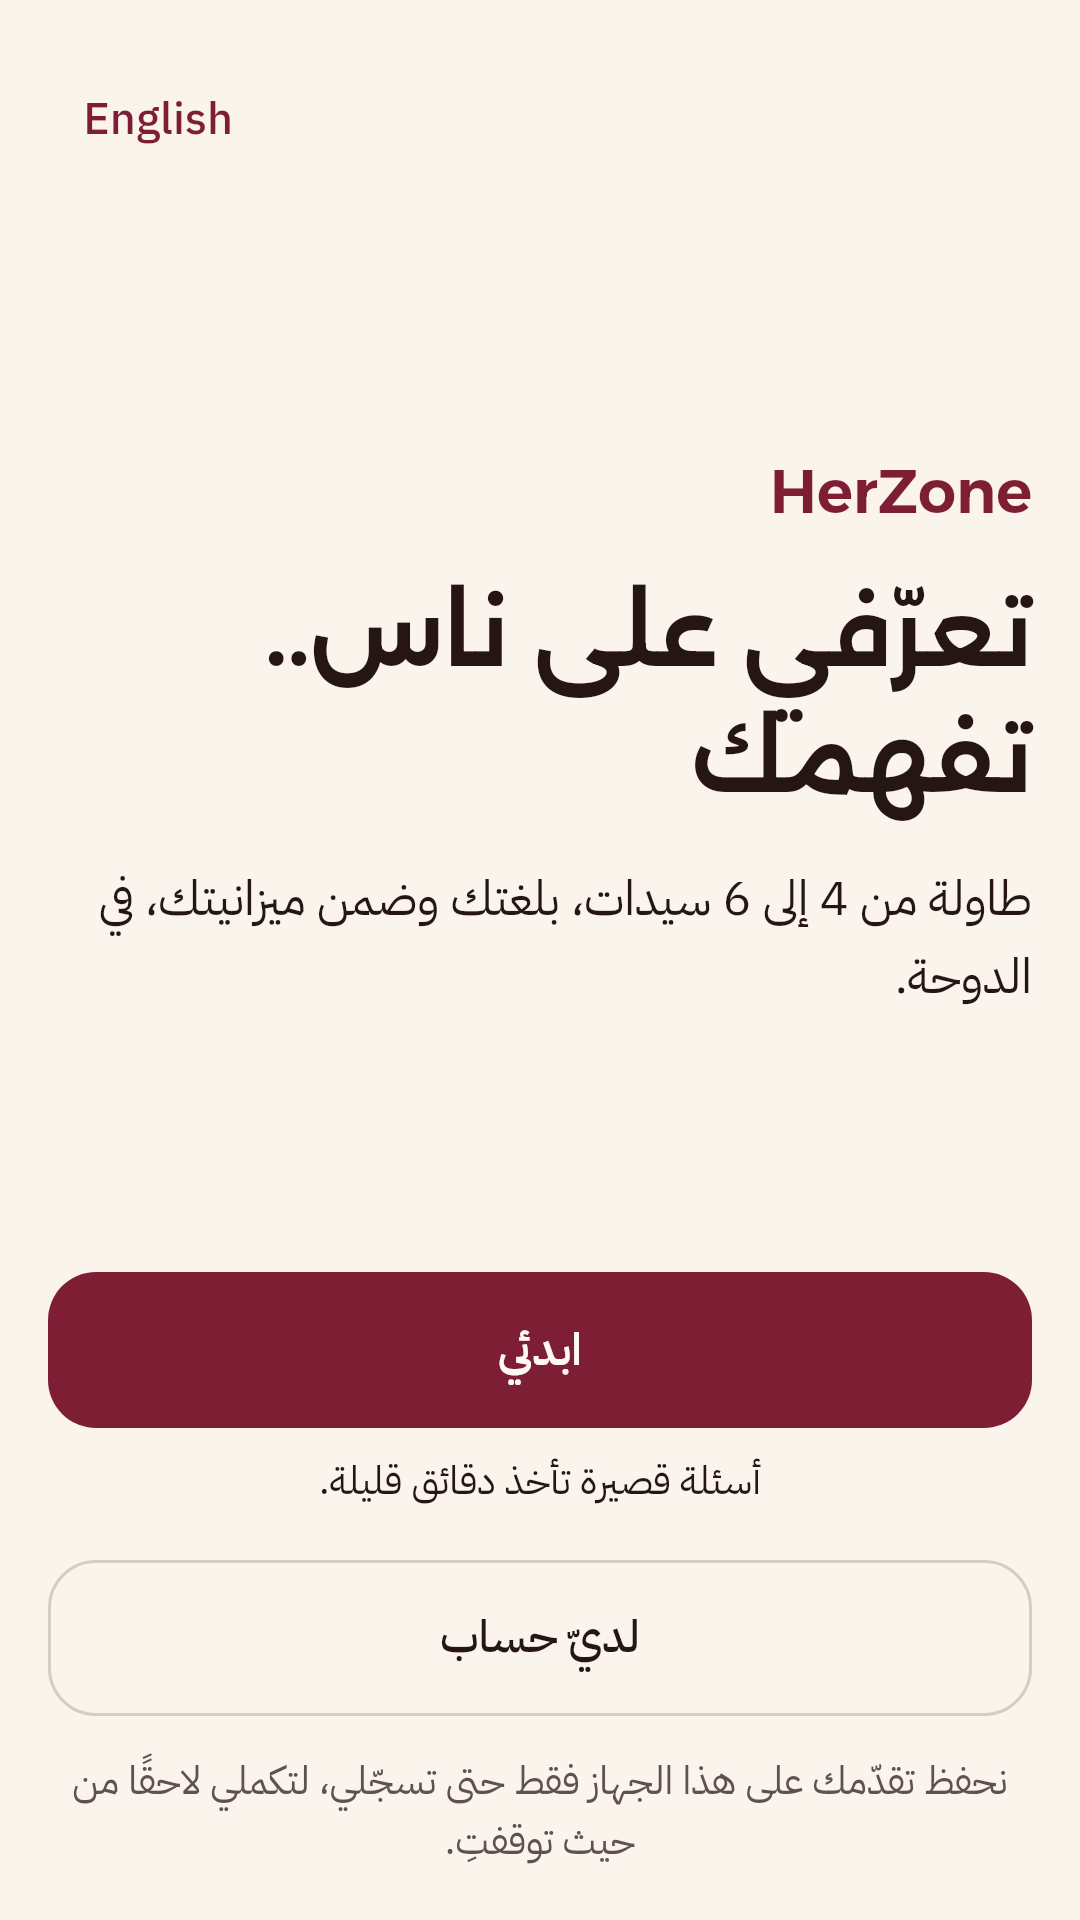
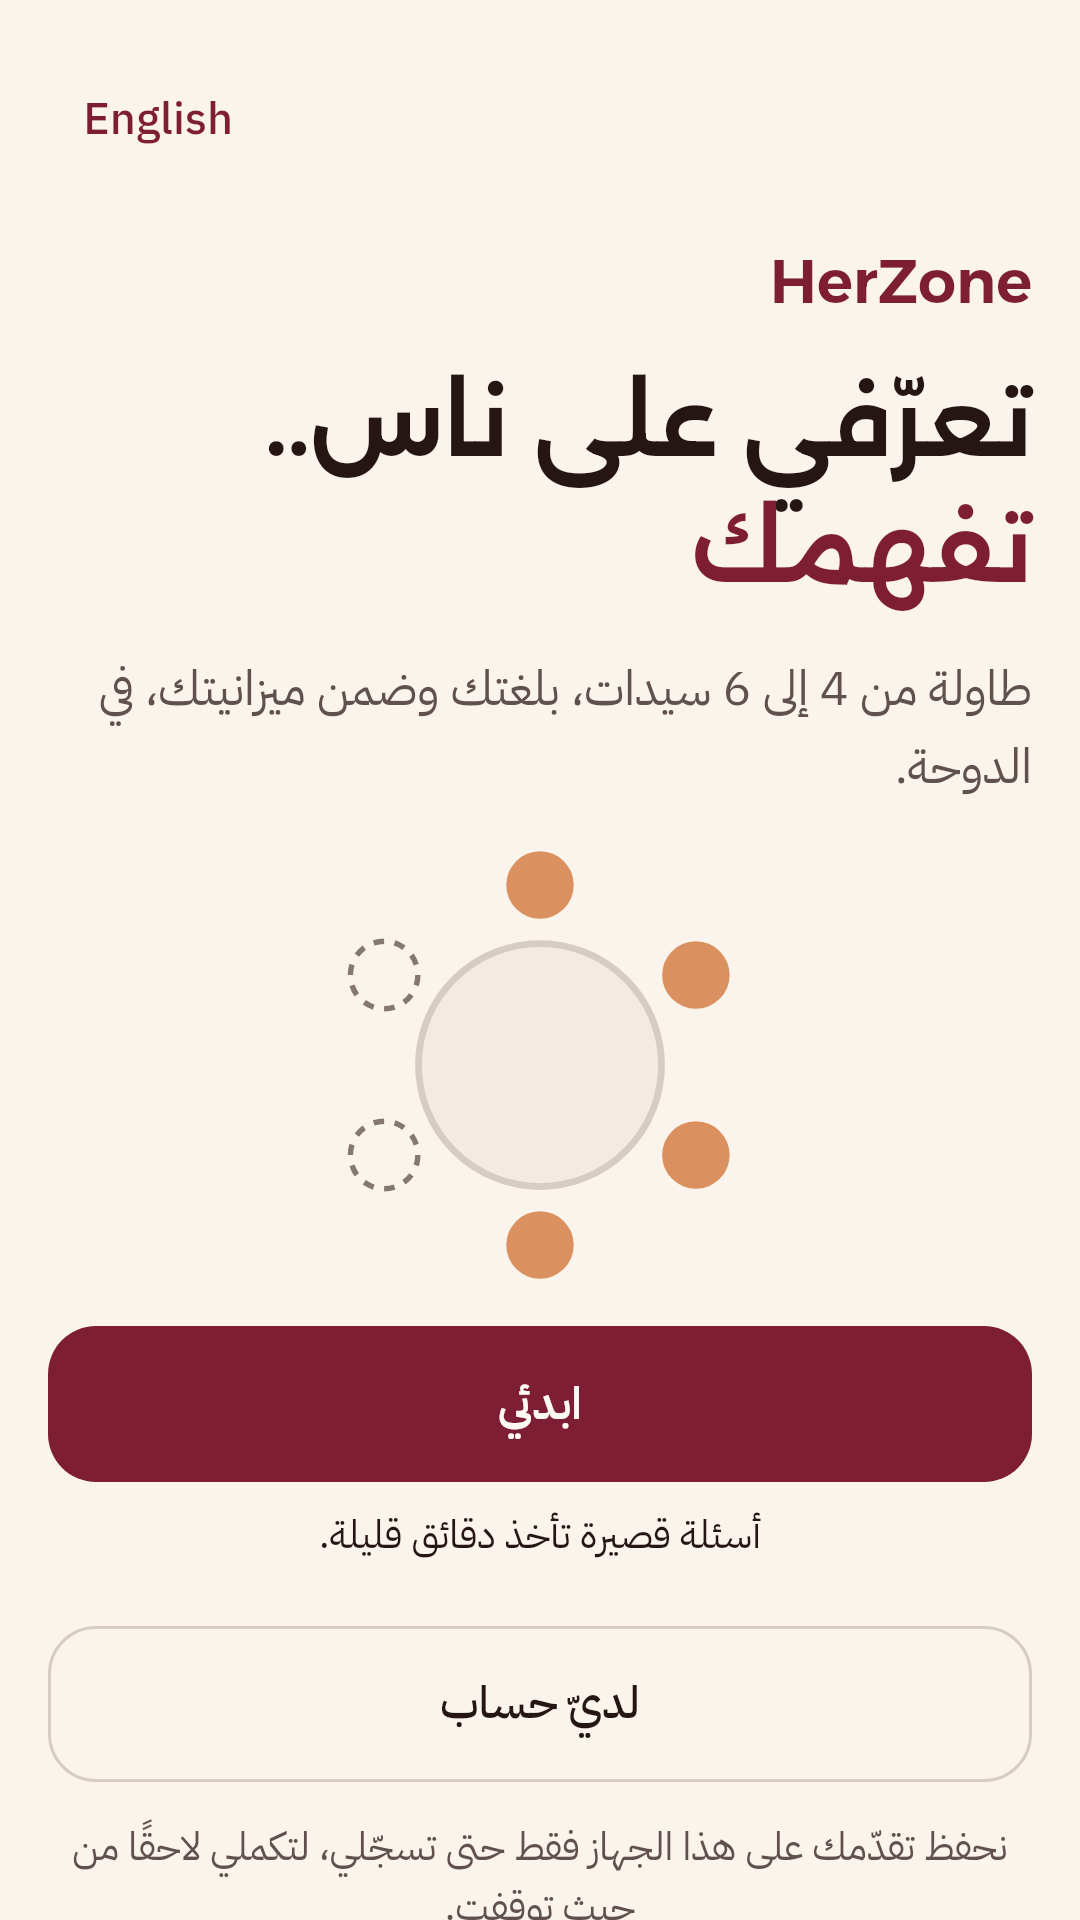
App design (Flutter): table drawing and accent on welcome, web-style cards, date lines, progress ticks
From the design audit of the app's screens, matched to herzone.app:
- welcome: the same table drawing (new TableArt widget) and the accent word «تفهمك» / "get you";
  scrolls when the text is enlarged or the screen is short
- cards app-wide as on the web: sunken fill, no border, no shadow (CardThemeData)
- session cards and booking details: the experience and the date on separate lines, so a "·"
  never dangles at the end of a wrapped line
- booking progress: done steps with a check icon (the app font has no tick glyph), current step
  bold in the brand colour, bars level when a label wraps
- store screenshots (iOS 6.9", Android) regenerated

flutter analyze: no issues; 39 app tests pass.

Claude-Session: https://claude.ai/code/session_01FEXgDqNsHx3oP1pnWG1BkE

diff --git a/qatar/app/lib/ui/onboarding/welcome_screen.dart b/qatar/app/lib/ui/onboarding/welcome_screen.dart
@@ -5,6 +5,7 @@ import 'package:provider/provider.dart';
 import '../../design/herzone_tokens.dart';
 import '../../domain/locale_controller.dart';
 import '../../l10n/app_localizations.dart';
+import '../common/table_art.dart';
 import '../theme.dart';
 
 class WelcomeScreen extends StatelessWidget {
@@ -15,30 +16,51 @@ class WelcomeScreen extends StatelessWidget {
     final t = AppLocalizations.of(context);
     final c = hzColors(context);
     final tt = Theme.of(context).textTheme;
+    // the last words of the headline in the brand colour, as on herzone.app ("تعرّفي على ناس.. تفهمك")
+    final hero = t.welcomeHero;
+    final em = t.welcomeHeroEm;
+    final at = hero.lastIndexOf(em);
+    final heroText = at < 0
+        ? Text(hero, style: tt.displaySmall)
+        : Text.rich(TextSpan(style: tt.displaySmall, children: [
+            TextSpan(text: hero.substring(0, at)),
+            TextSpan(text: em, style: TextStyle(color: c.primary)),
+            TextSpan(text: hero.substring(at + em.length)),
+          ]));
     return Scaffold(
       body: SafeArea(
-        child: Padding(
-          padding: const EdgeInsets.all(HzSpace.gutter),
-          child: Column(crossAxisAlignment: CrossAxisAlignment.stretch, children: [
-            Align(
-              alignment: AlignmentDirectional.centerEnd,
-              child: TextButton(key: const Key('lang'), onPressed: context.read<LocaleController>().toggle, child: Text(t.language)),
+        // scrolls when the text is enlarged or the screen is short, and fills the screen otherwise
+        child: LayoutBuilder(
+          builder: (context, box) => SingleChildScrollView(
+            padding: const EdgeInsets.all(HzSpace.gutter),
+            child: ConstrainedBox(
+              constraints: BoxConstraints(minHeight: box.maxHeight - 2 * HzSpace.gutter),
+              child: IntrinsicHeight(
+                child: Column(crossAxisAlignment: CrossAxisAlignment.stretch, children: [
+                  Align(
+                    alignment: AlignmentDirectional.centerEnd,
+                    child: TextButton(key: const Key('lang'), onPressed: context.read<LocaleController>().toggle, child: Text(t.language)),
+                  ),
+                  const SizedBox(height: HzSpace.s4),
+                  Text(t.brand, style: tt.titleLarge?.copyWith(color: c.primary)),
+                  const SizedBox(height: HzSpace.s3),
+                  heroText,
+                  const SizedBox(height: HzSpace.s3),
+                  Text(t.welcomeSub, style: tt.bodyLarge?.copyWith(color: c.textMuted)),
+                  const Spacer(),
+                  const Center(child: Padding(padding: EdgeInsets.symmetric(vertical: HzSpace.s3), child: TableArt(size: 150))),
+                  const Spacer(),
+                  FilledButton(key: const Key('start'), onPressed: () => context.go('/quiz'), child: Text(t.getStarted)),
+                  const SizedBox(height: HzSpace.s2),
+                  Text(t.quizLength, textAlign: TextAlign.center, style: tt.bodySmall),
+                  const SizedBox(height: HzSpace.s5),
+                  OutlinedButton(key: const Key('have-account'), onPressed: () => context.go('/sign-in'), child: Text(t.haveAccount)),
+                  const SizedBox(height: HzSpace.s3),
+                  Text(t.deviceNote, textAlign: TextAlign.center, style: tt.bodySmall?.copyWith(color: c.textMuted)),
+                ]),
+              ),
             ),
-            const Spacer(),
-            Text(t.brand, style: tt.titleLarge?.copyWith(color: c.primary)),
-            const SizedBox(height: HzSpace.s3),
-            Text(t.welcomeHero, style: tt.displaySmall),
-            const SizedBox(height: HzSpace.s3),
-            Text(t.welcomeSub, style: tt.bodyLarge),
-            const Spacer(),
-            FilledButton(key: const Key('start'), onPressed: () => context.go('/quiz'), child: Text(t.getStarted)),
-            const SizedBox(height: HzSpace.s2),
-            Text(t.quizLength, textAlign: TextAlign.center, style: tt.bodySmall),
-            const SizedBox(height: HzSpace.s4),
-            OutlinedButton(key: const Key('have-account'), onPressed: () => context.go('/sign-in'), child: Text(t.haveAccount)),
-            const SizedBox(height: HzSpace.s3),
-            Text(t.deviceNote, textAlign: TextAlign.center, style: tt.bodySmall?.copyWith(color: c.textMuted)),
-          ]),
+          ),
         ),
       ),
     );

diff --git a/qatar/app/lib/ui/meetups/event_details_screen.dart b/qatar/app/lib/ui/meetups/event_details_screen.dart
@@ -76,7 +76,8 @@ class _EventDetailsScreenState extends State<EventDetailsScreen> {
                 ),
                 const SizedBox(height: HzSpace.s4),
               ],
-              Text('${experienceName(t, d.experience)} · ${fmtWhen(d.startsAt, lang)}', style: tt.headlineMedium),
+              Text(experienceName(t, d.experience), style: tt.headlineMedium),
+              Text(fmtWhen(d.startsAt, lang), style: tt.titleLarge),
               const SizedBox(height: HzSpace.s1),
               Text('${t.bookingRef} ${d.ref}', style: tt.bodySmall),
               if (d.stage != null) ...[const SizedBox(height: HzSpace.s4), _Tracker(stage: d.stage!)],
@@ -102,7 +103,6 @@ class _EventDetailsScreenState extends State<EventDetailsScreen> {
               if (v != null)
                 TestId('venue', child: Card(
                   key: const Key('venue'),
-                  color: c.surface,
                   child: Padding(
                     padding: const EdgeInsets.all(HzSpace.s4),
                     child: Column(crossAxisAlignment: CrossAxisAlignment.start, children: [
@@ -244,7 +244,8 @@ class _Tracker extends StatelessWidget {
     final t = AppLocalizations.of(context);
     final c = hzColors(context);
     final steps = [t.step1, t.step2, t.step3, t.step4];
-    return Row(children: [
+    // top-aligned, so the bars stay level when one label wraps onto two lines
+    return Row(crossAxisAlignment: CrossAxisAlignment.start, children: [
       for (var i = 0; i < steps.length; i++)
         Expanded(
           child: Semantics(
@@ -252,7 +253,20 @@ class _Tracker extends StatelessWidget {
             child: Column(children: [
               Container(height: 4, margin: const EdgeInsets.symmetric(horizontal: 2), color: i <= stage ? c.primary : c.border),
               const SizedBox(height: HzSpace.s1),
-              Text(steps[i], textAlign: TextAlign.center, style: TextStyle(fontSize: 12, fontWeight: i == stage ? FontWeight.w700 : FontWeight.w400, color: i <= stage ? c.text : c.textMuted)),
+              // done steps carry a tick and the current one is bold in the brand colour: not told by colour alone
+              // (an icon, not a "✓" character: the app font has no tick glyph)
+              Text.rich(
+                TextSpan(children: [
+                  if (i < stage) ...[
+                    WidgetSpan(alignment: PlaceholderAlignment.middle, child: Icon(Icons.check_rounded, size: 14, color: c.primary)),
+                    const TextSpan(text: ' '),
+                  ],
+                  TextSpan(text: steps[i]),
+                ]),
+                textAlign: TextAlign.center,
+                style: TextStyle(fontSize: 13, fontWeight: i == stage ? FontWeight.w700 : FontWeight.w400,
+                    color: i == stage ? c.primary : i < stage ? c.text : c.textMuted),
+              ),
             ]),
           ),
         ),

diff --git a/qatar/app/lib/ui/common/table_art.dart b/qatar/app/lib/ui/common/table_art.dart
@@ -1,0 +1,62 @@
+import 'dart:math' as math;
+
+import 'package:flutter/material.dart';
+
+import '../theme.dart';
+
+/// The HerZone table drawing (same as the web's welcome): a round table with [seats] chairs, [filled] of them taken
+/// (solid seat colour) and the rest open (dashed). It stands in for photos: members are never pictured.
+class TableArt extends StatelessWidget {
+  const TableArt({super.key, this.seats = 6, this.filled = 4, this.size = 200});
+  final int seats;
+  final int filled;
+  final double size;
+
+  @override
+  Widget build(BuildContext context) {
+    final c = hzColors(context);
+    return ExcludeSemantics(
+      child: SizedBox.square(
+        dimension: size,
+        child: CustomPaint(painter: _TablePainter(seats: seats, filled: filled, table: c.surfaceSunken, rim: c.border, seat: c.seat, open: c.borderStrong)),
+      ),
+    );
+  }
+}
+
+class _TablePainter extends CustomPainter {
+  _TablePainter({required this.seats, required this.filled, required this.table, required this.rim, required this.seat, required this.open});
+  final int seats, filled;
+  final Color table, rim, seat, open;
+
+  @override
+  void paint(Canvas canvas, Size size) {
+    final s = size.shortestSide;
+    final center = size.center(Offset.zero);
+    final tableR = s * 0.27, seatR = s * 0.075, orbit = s * 0.40;
+    canvas.drawCircle(center, tableR, Paint()..color = table);
+    canvas.drawCircle(center, tableR, Paint()..color = rim..style = PaintingStyle.stroke..strokeWidth = s * 0.015);
+    // seats go clockwise from the top; the open ones end up on the start side, as on the web drawing
+    for (var i = 0; i < seats; i++) {
+      final a = -math.pi / 2 + i * 2 * math.pi / seats;
+      final p = center + Offset(math.cos(a), math.sin(a)) * orbit;
+      if (i < filled || i == seats - 1 && filled == seats) {
+        canvas.drawCircle(p, seatR, Paint()..color = seat);
+      } else {
+        _dashedCircle(canvas, p, seatR, Paint()..color = open..style = PaintingStyle.stroke..strokeWidth = s * 0.012);
+      }
+    }
+  }
+
+  void _dashedCircle(Canvas canvas, Offset c, double r, Paint paint) {
+    const dashes = 10;
+    for (var i = 0; i < dashes; i++) {
+      final start = i * 2 * math.pi / dashes;
+      canvas.drawArc(Rect.fromCircle(center: c, radius: r), start, math.pi / dashes, false, paint);
+    }
+  }
+
+  @override
+  bool shouldRepaint(_TablePainter old) =>
+      old.seats != seats || old.filled != filled || old.table != table || old.seat != seat || old.open != open || old.rim != rim;
+}

diff --git a/qatar/app/lib/ui/meetups/home_tab.dart b/qatar/app/lib/ui/meetups/home_tab.dart
@@ -52,8 +52,6 @@ class _SessionCard extends StatelessWidget {
     return TestId('session-${s.id}', child: Card(
       key: Key('session-${s.id}'),
       margin: const EdgeInsets.only(bottom: HzSpace.s3),
-      color: c.surface,
-      shape: RoundedRectangleBorder(borderRadius: BorderRadius.circular(HzRadius.md), side: BorderSide(color: c.border)),
       child: InkWell(
         borderRadius: BorderRadius.circular(HzRadius.md),
         onTap: s.myBookingId != null
@@ -64,7 +62,9 @@ class _SessionCard extends StatelessWidget {
         child: Padding(
           padding: const EdgeInsets.all(HzSpace.s4),
           child: Column(crossAxisAlignment: CrossAxisAlignment.start, children: [
-            Text('${experienceName(t, s.experience)} · ${fmtWhen(s.startsAt, lang)}', style: Theme.of(context).textTheme.titleLarge),
+            // the experience, then the date on its own line: a "·" never dangles at the end of a wrapped line
+            Text(experienceName(t, s.experience), style: Theme.of(context).textTheme.titleLarge),
+            Text(fmtWhen(s.startsAt, lang), style: Theme.of(context).textTheme.titleMedium),
             const SizedBox(height: HzSpace.s1),
             Text('${s.district} · ${s.language == 'ar' ? t.langAr : t.langEn}'),
             const SizedBox(height: HzSpace.s2),

diff --git a/qatar/app/lib/ui/theme.dart b/qatar/app/lib/ui/theme.dart
@@ -55,6 +55,8 @@ ThemeData herZoneTheme(Brightness brightness, String lang) {
       enabledBorder: OutlineInputBorder(borderRadius: BorderRadius.circular(HzRadius.md), borderSide: BorderSide(color: c.border)),
       focusedBorder: OutlineInputBorder(borderRadius: BorderRadius.circular(HzRadius.md), borderSide: BorderSide(color: c.focus, width: 2)),
     ),
+    // cards as on the web (.card): a sunken fill, no border and no shadow
+    cardTheme: CardThemeData(color: c.surfaceSunken, elevation: 0, surfaceTintColor: Colors.transparent, shadowColor: Colors.transparent, shape: shape),
     appBarTheme: AppBarTheme(backgroundColor: c.bg, foregroundColor: c.text, elevation: 0, scrolledUnderElevation: 0, centerTitle: false),
     navigationBarTheme: NavigationBarThemeData(
       backgroundColor: c.surface,

diff --git a/qatar/app/lib/l10n/app_localizations.dart b/qatar/app/lib/l10n/app_localizations.dart
@@ -560,6 +560,12 @@ abstract class AppLocalizations {
   /// **'تعرّفي على ناس.. تفهمك'**
   String get welcomeHero;
 
+  /// No description provided for @welcomeHeroEm.
+  ///
+  /// In ar, this message translates to:
+  /// **'تفهمك'**
+  String get welcomeHeroEm;
+
   /// No description provided for @welcomeSub.
   ///
   /// In ar, this message translates to:

diff --git a/qatar/app/lib/l10n/app_localizations_ar.dart b/qatar/app/lib/l10n/app_localizations_ar.dart
@@ -261,6 +261,9 @@ class AppLocalizationsAr extends AppLocalizations {
   String get welcomeHero => 'تعرّفي على ناس.. تفهمك';
 
   @override
+  String get welcomeHeroEm => 'تفهمك';
+
+  @override
   String get welcomeSub =>
       'طاولة من 4 إلى 6 سيدات، بلغتك وضمن ميزانيتك، في الدوحة.';
 

diff --git a/qatar/app/lib/l10n/app_localizations_en.dart b/qatar/app/lib/l10n/app_localizations_en.dart
@@ -264,6 +264,9 @@ class AppLocalizationsEn extends AppLocalizations {
   String get welcomeHero => 'Meet people who get you.';
 
   @override
+  String get welcomeHeroEm => 'get you';
+
+  @override
   String get welcomeSub =>
       'A table of 4 to 6 women, in your language and within your budget, in Doha.';
 

diff --git a/qatar/docs/design/herzone.app.md b/qatar/docs/design/herzone.app.md
@@ -51,7 +51,7 @@ excluded: their washed-out look is timing, not design.
 | 5 | Desktop welcome uses a phone layout centred in a wide window (large empty sides). | **Fixed:** two columns from 1024 px (headline, text and buttons on one side; the table drawing on the other, vertically centred). |
 | 6 | Review: two-column rows wrap awkwardly («رسم التنظيم (يُدفع الآن)» / «الطعام والمشروبات (تُدفع للمكان): ضمن ميزانيتك متوسط»), and the 10-minute hold timer floats between the agreement box and the pay button. | **Fixed:** label above value under 400 px; the timer is a pill just above the pay button; 12 px between the warning and the agreement box. |
 | 7 | Booking details: the 5-step progress labels are small and grey; the current step is told by colour alone. | **Fixed:** done steps carry a ✓ (current stays bold), step labels 13 px instead of 12 px. Also: «إلغاء الحجز» now stands 24 px apart from the help buttons. |
-| 8 | The Flutter app was not part of this pass (web only). | Next: same audit on the app's store screenshots. |
+| 8 | The Flutter app (audited from its store screenshots): no table drawing and no accent word on welcome (unlike the web); cards with a dark outline and shadow; the date title broke with a dangling «·» («عشاء · الخميس 12 نوفمبر ·» / «7:30 م»); progress steps by colour alone; welcome not scrollable with large text. | **Fixed:** the same table drawing (`TableArt`) and accent word «تفهمك»; cards as on the web (sunken fill, no border, no shadow, app-wide); the experience and the date on separate lines; done steps with a check icon, current step bold in the brand colour, bars level; welcome scrolls when needed. Store screenshots regenerated. |
 
 Checks after the fixes: 14 browser tests pass (they also check one h1 per screen and no horizontal scroll at 360 px,
 under the real Content-Security-Policy).
